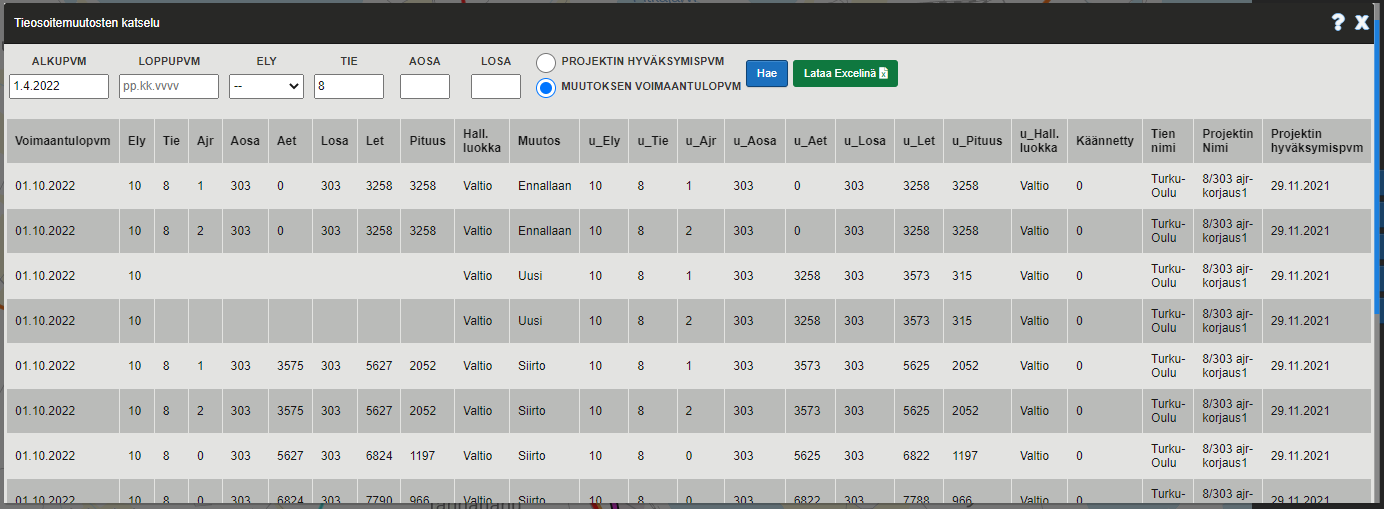
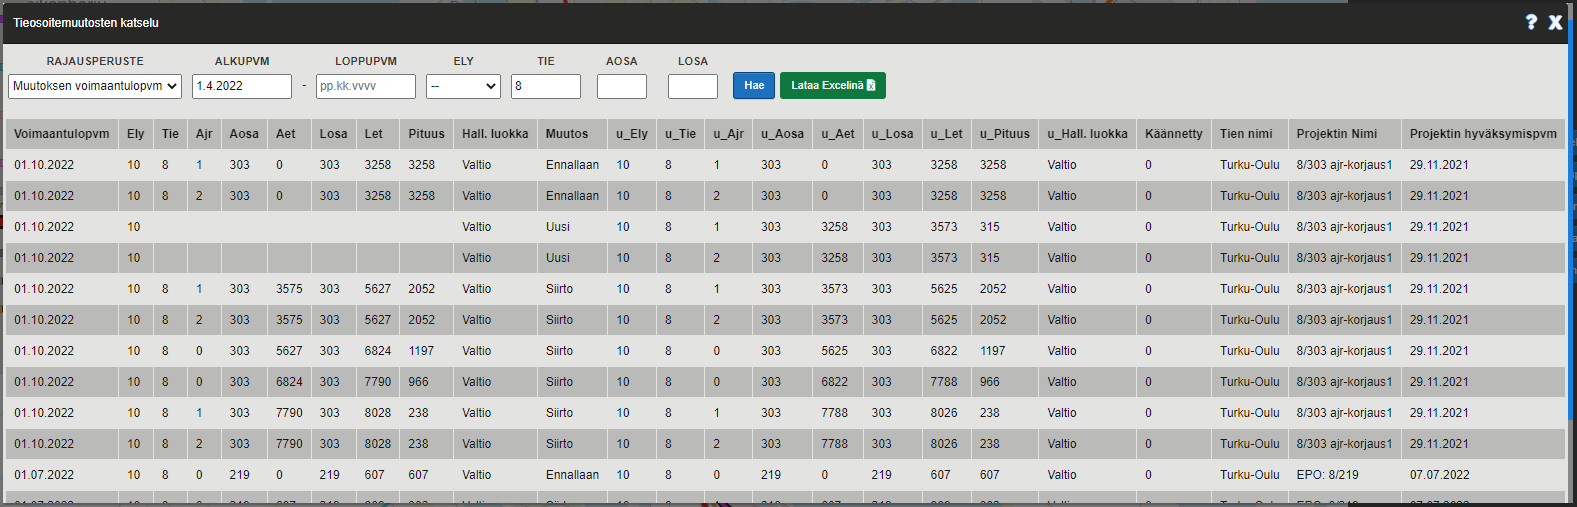
VIITE-2904 update images and search parameter descriptions

diff --git a/viite-UI/src/view/RoadAddressBrowserForm.js b/viite-UI/src/view/RoadAddressBrowserForm.js
@@ -11,7 +11,7 @@
                     '</select>' +
                 '</div>' +
                 '<div class="input-container"><label class="control-label-small">Alkupvm</label> <input type="text" class="road-address-browser-date-input" id="roadAddrChangesStartDate"required/></div>' +
-                '<div class="input-container"> <b style="margin-top: 20px"> - </b></div>' +
+                '<div class="input-container"> <b style="margin-top: 25px"> - </b></div>' +
                 '<div class="input-container"><label class="control-label-small">Loppupvm</label> <input type="text" class="road-address-browser-date-input" id="roadAddrChangesEndDate" /></div>' +
                 '<div class="input-container">' +
                     '<label class="control-label-small">Ely</label>' +

diff --git a/viite-UI/manual/index.md b/viite-UI/manual/index.md
@@ -984,16 +984,16 @@ _Kuva 11.1: Tieosoitemuutosten hakuehdot_
 
 Hakuehdoista alkupäivämäärä on pakollinen tieto
 
-(1) Alkupvm: Karsitaan alkupvm -kenttää vanhemmat tieosoitemuutokset pois hakutuloksista
-(2) Loppupvm: Karsitaan loppupvm -kenttää uudemmat tieosoitemuutokset pois hakutuloksista
-(3) Ely: Haetaan vain annetun ELYn tieosoitemuutoksia   
-(4) Tie: Rajataan haku annetun tienumeron mukaisiin tieosoitemuutoksiin  
-(5) Aosa: Pienin tieosanumero jolta haettavia tieosoitemuutoksia haetaan   
-(6) Losa: Suurin tieosanumero jolta haettavia tieosoitemuutoksia haetaan
+(1) Rajausperuste:    
+  - Projektin hyväksymispvm: Alku- ja loppupvm -kentät rajaavat hakutuloksia projektin hyväksymispäivämäärän perusteella    
+  - Muutoksen voimaantulopvm: Alku- ja loppupvm -kentät rajaavat hakutuloksia tieosoitemuutoksen voimaantulopäivämäärän perusteella   
 
-####  Alku- ja loppupäivämäärien kohde
-(7) Projektin hyväksymispvm: Alku- ja loppupvm -kentät rajaavat hakutuloksia projektin hyväksymispäivämäärän perusteella   
-(8) Muutoksen voimaantulopvm: Alku- ja loppupvm -kentät rajaavat hakutuloksia tieosoitemuutoksen voimaantulopäivämäärän perusteella    
+(2) Alkupvm: Karsitaan alkupvm -kenttää vanhemmat tieosoitemuutokset pois hakutuloksista   
+(3) Loppupvm: Karsitaan loppupvm -kenttää uudemmat tieosoitemuutokset pois hakutuloksista   
+(4) Ely: Haetaan vain annetun ELYn tieosoitemuutoksia   
+(5) Tie: Rajataan haku annetun tienumeron mukaisiin tieosoitemuutoksiin  
+(6) Aosa: Pienin tieosanumero jolta haettavia tieosoitemuutoksia haetaan   
+(7) Losa: Suurin tieosanumero jolta haettavia tieosoitemuutoksia haetaan
 
 Huom! Haku saattaa kestää useita sekunteja haettaessa pelkästään alkupäivämäärällä (Viite hakee kaikki tieosoitemuutokset annetun alkupäivämäärän jälkeiseltä ajalta)
 
